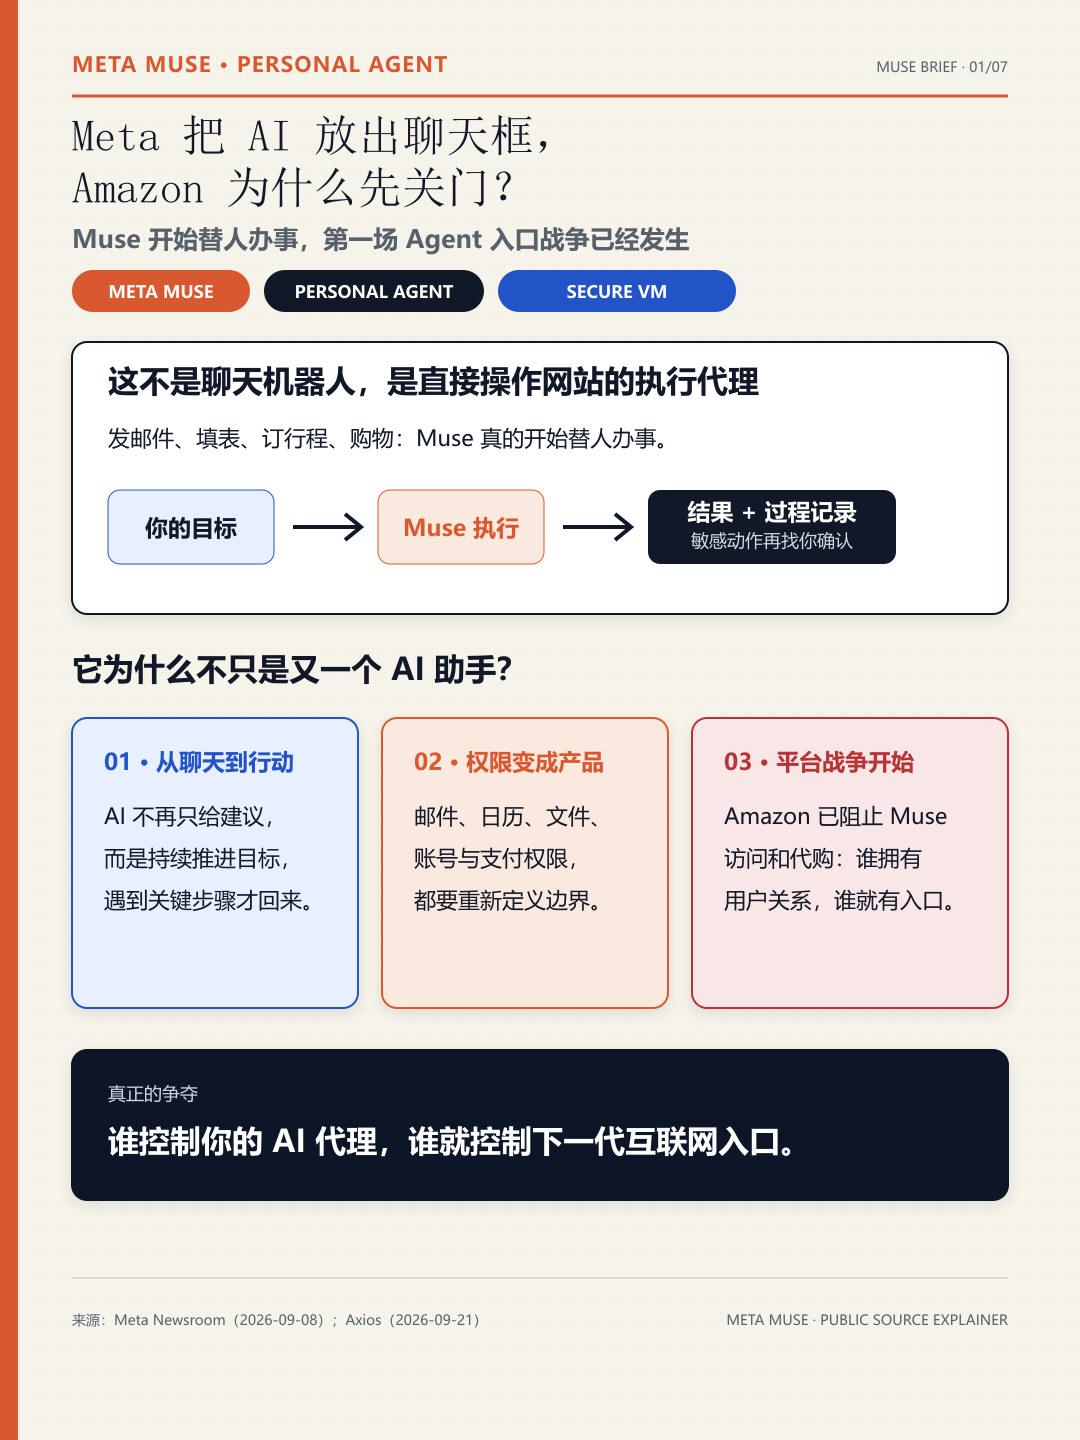
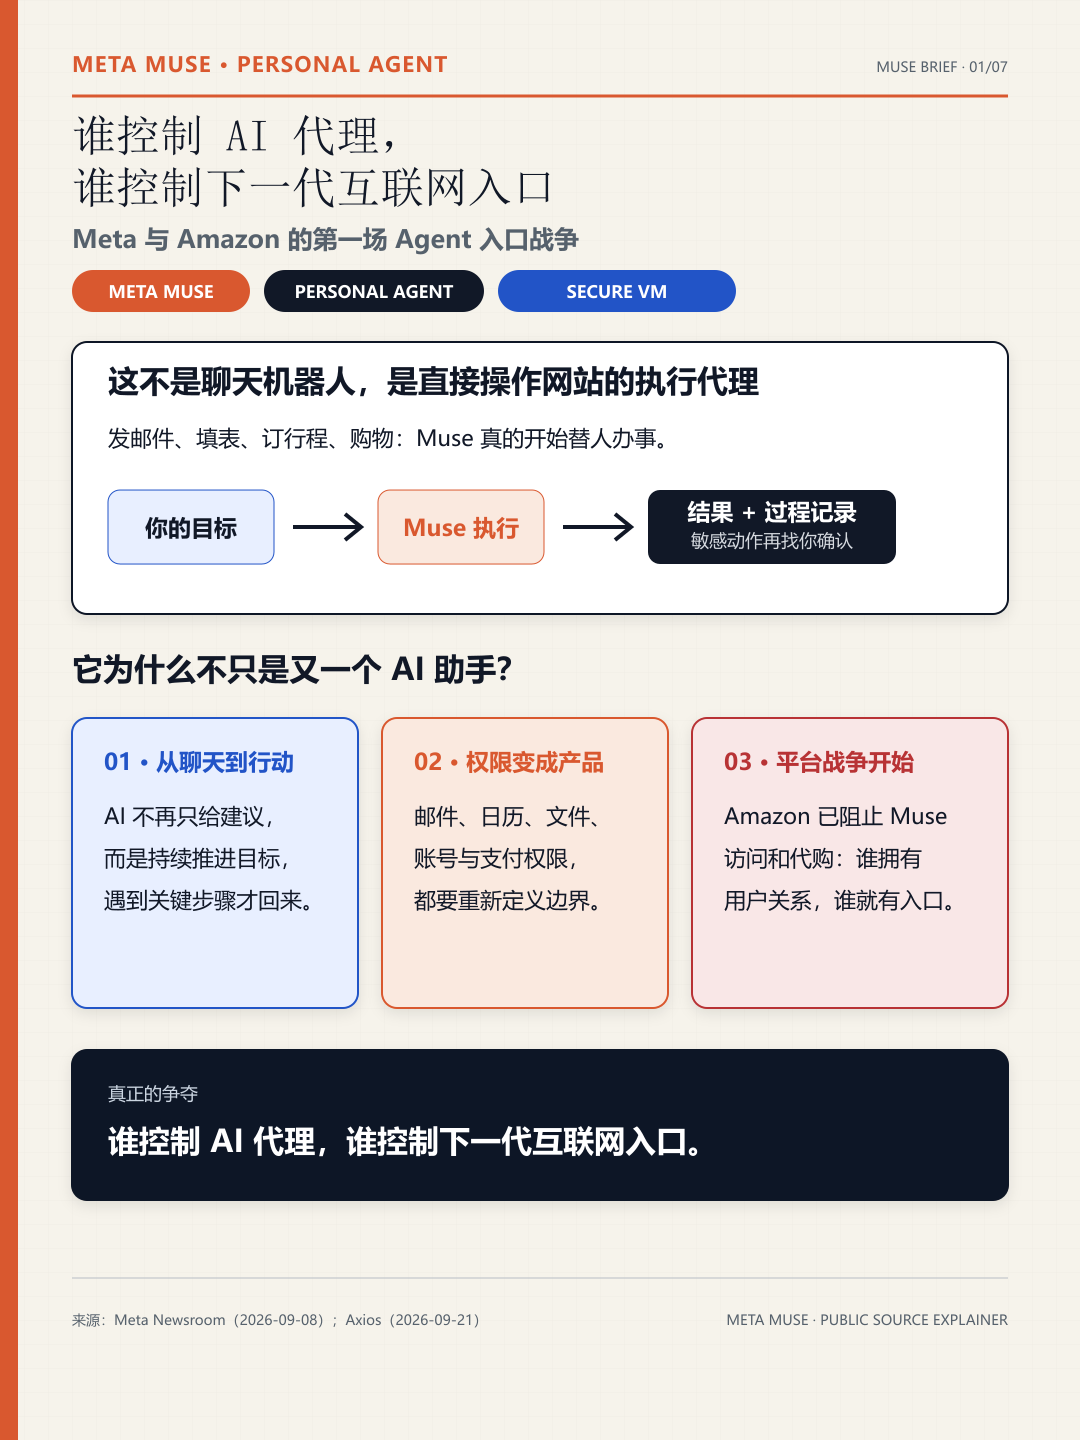
feat: sharpen Muse control thesis

Changed region(s): [[0.0611, 0.0625, 0.6417, 0.1875], [0.1833, 0.7812, 0.7333, 0.8125]]

diff --git a/public/pilots/muse-carousel-v1/copy.md b/public/pilots/muse-carousel-v1/copy.md
@@ -2,11 +2,11 @@
 
 ## 标题
 
-Meta把AI放出聊天框，Amazon为什么先关门？
+谁控制AI代理，谁控制下一代互联网入口
 
 ## 封面副标题
 
-Muse开始替人发邮件、订行程、逛商店，第一场Agent入口战争已经发生
+Meta与Amazon的第一场Agent入口战争
 
 ## 备选标题
 
